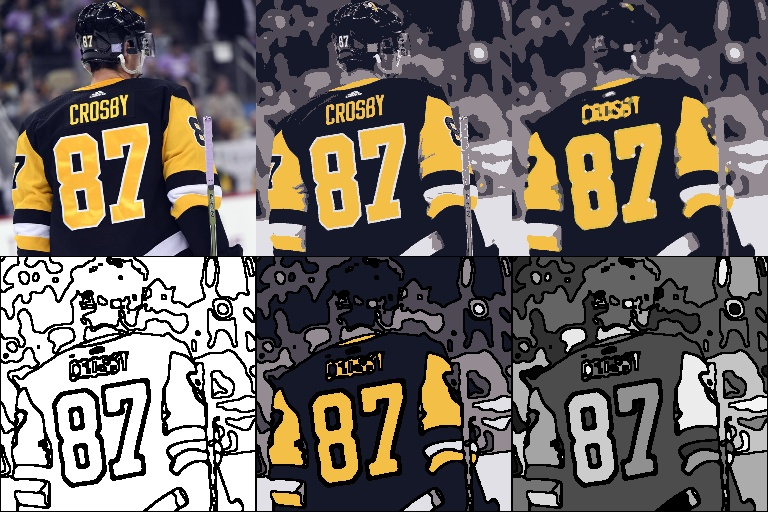
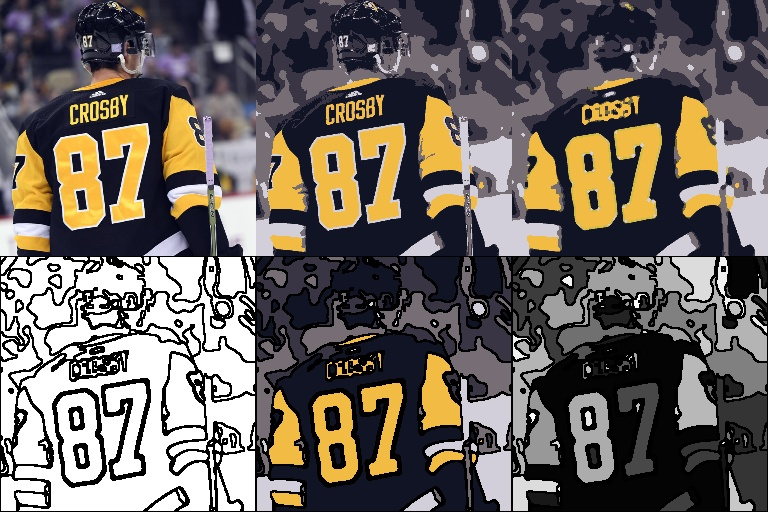
seeded k-means for bm

diff --git a/paint_by_numbers_pipeline.py b/paint_by_numbers_pipeline.py
@@ -18,14 +18,15 @@ specific_image_name = 'crosby.jpg'
 image_name = prepath + specific_image_name			# Name of Image
 crayon_name = 'color_packs/crayola_22pk.txt'    # Name of c
 reshape_image = True						# Whether to reshape image dimensions
-reshape_width = 256#int(256*1.5)
-reshape_height = 256#128*2
+reshape_width = 256
+reshape_height = 256
 color_code = 1 								# Color code to read in (0 = grayscale, 1 = BGR)
-num_colors = 5						# Number of colors needed for k-means clustering
+num_colors = 5				# Number of colors needed for k-means clustering
 median_kernel = 5							# Size of median kernel used for blurring
 blur = 'median'								# 'median' or 'gaussian'
-show_results = True							# Show plots?
-use_custom_rgb_to_lab = False				# Use custom RGB to LAB conversion function
+show_results = False							# Show plots?
+use_custom_rgb_to_lab = True				# Use custom RGB to LAB conversion function
+save_img = False
 
 # GPU Settings
 use_gpu = True								# Whether to use cuda
@@ -319,6 +320,7 @@ if use_custom_rgb_to_lab and use_gpu:
 elif use_custom_rgb_to_lab:
 	quantized_image = convert_rgb_to_lab(original_image.copy())
 else:
+	print('CV Color')
 	quantized_image = cv2.cvtColor(test_image, cv2.COLOR_BGR2LAB)
 color_cvt1_end = time.clock()
 
@@ -331,7 +333,7 @@ color_reshape1_end = time.clock()
 print("K-Means Clustering Colors ...")
 # Initialize k-means
 kmeans_start = time.clock()
-clusters = MiniBatchKMeans(n_clusters=num_colors)				# TO DO: Check if this can be
+clusters = MiniBatchKMeans(n_clusters=num_colors, random_state=3)				# TO DO: Check if this can be
 kmeans_end = time.clock()
 
 print("Pixel labeling clusters ...")
@@ -354,6 +356,7 @@ color_reshape2_end = time.clock()
 
 # Convert quantized image from LAB to BGR
 color_cvt2_start = time.clock()
+print(quantized_image.dtype)
 quantized_image = cv2.cvtColor(quantized_image, cv2.COLOR_LAB2BGR)
 color_cvt2_end = time.clock()
 
@@ -436,11 +439,13 @@ if show_results:
 	images_to_show = np.vstack([row_1, row_2])
 	cv2.imshow("Paint By Numbers", images_to_show)
 	cv2.waitKey(0)
-	cv2.imwrite('sample_results/' + specific_image_name, images_to_show)
+	if save_img:
+		cv2.imwrite('sample_results/' + specific_image_name, images_to_show)
 	cv2.destroyAllWindows()
 	cv2.imshow("Final PBN Template", final_img)
 	cv2.waitKey(0)
-	cv2.imwrite('sample_results/template_' + specific_image_name, final_img)
+	if save_img:
+		cv2.imwrite('sample_results/template_' + specific_image_name, final_img)
 	cv2.destroyAllWindows()
 
 
